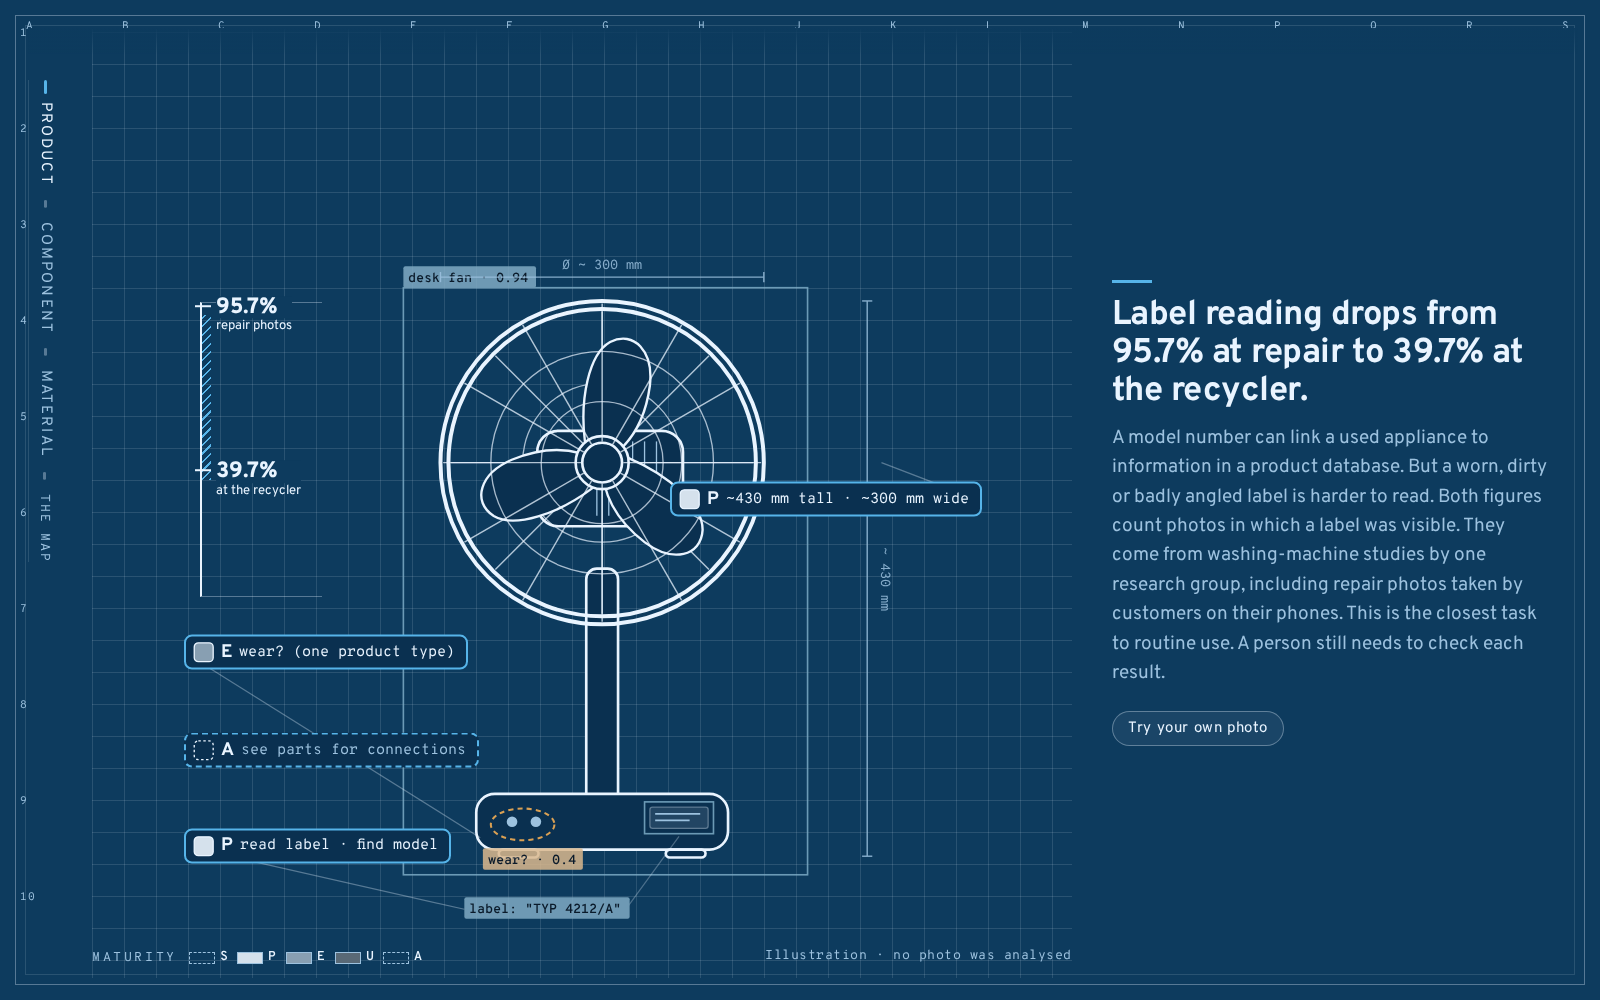
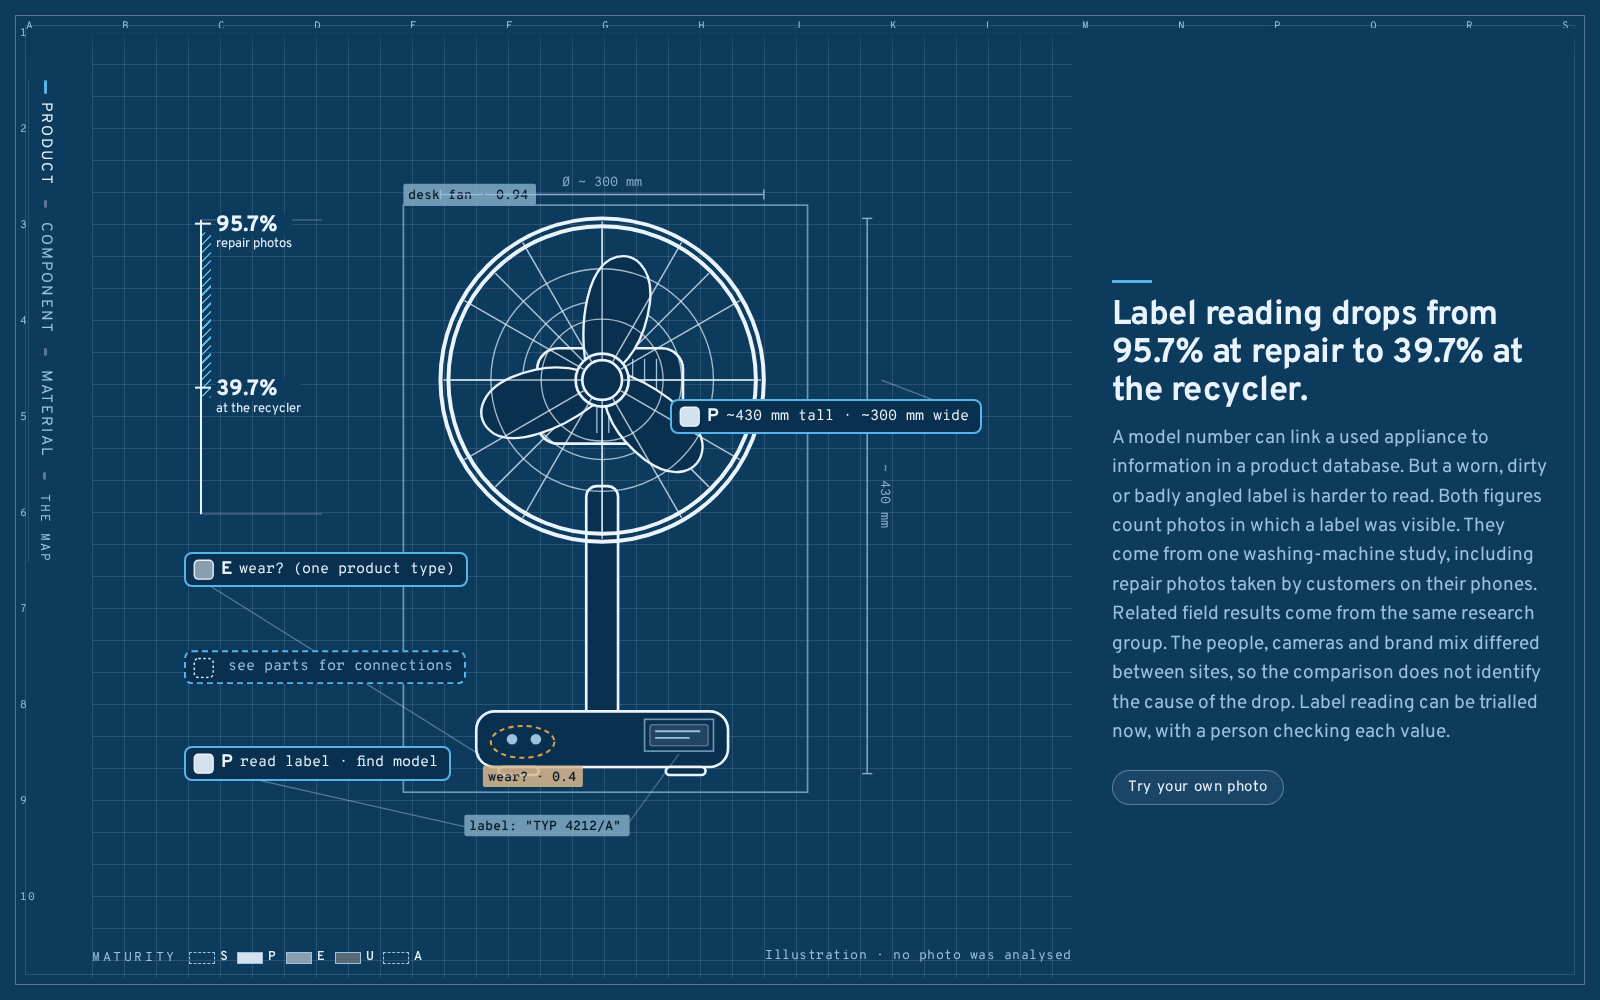
fix: preserve evidence scope and task semantics
- Qualify study results and remove ratings from structural placeholders.
- Restore mobile keyboard focus and production preview asset paths.
- Keep practical handling instructions visible.

diff --git a/src/CvTaxonomy.tsx b/src/CvTaxonomy.tsx
@@ -553,7 +553,11 @@ export function CvTaxonomy({
                 {!isMobile && (
                   <MaturityInstrument
                     live={CLAIMED_VERDICTS}
-                    reading={focus ? (splitOf(focus) ?? [focus.maturity]).join("|") : ""}
+                    reading={
+                      focus && !focus.structurallyEmpty
+                        ? (splitOf(focus) ?? [focus.maturity]).join("|")
+                        : ""
+                    }
                   />
                 )}
                 <IllustrativeDisclosure />
@@ -877,7 +881,9 @@ export function CellList({
                   ? split.map((v) => VERDICT_LETTER[v]).join(" / ")
                   : VERDICT_LETTER[cell.maturity]}
             </b>{" "}
-            <span className="cvt-sr">Maturity: {maturity}. Open details.</span>
+            <span className="cvt-sr">
+              {cell.structurallyEmpty ? "Not applicable" : `Maturity: ${maturity}`}. Open details.
+            </span>
           </button>
         );
       })}
@@ -913,9 +919,14 @@ export const Outro = memo(function Outro() {
           </p>
           <p>
             Taller blocks mean stronger evidence. The dashed line marks Strong, the highest rating;
-            no task reaches it. Two letters separate finding parts from identifying their
-            attachments. The two hatched cells point back to the parts, where connections are
-            assessed.
+            no task reaches it. Finding parts and identifying their attachments receive separate
+            ratings, giving eleven assessments across ten tasks. The two hatched cells point back to
+            the parts, where connections are assessed; they have no rating of their own.
+          </p>
+          <p>
+            Strong requires a method intended for many product types, evidence that it works on
+            recycler-intake photos, and documented use for the task. Missing tests leave a
+            requirement unmet; they do not demonstrate failure.
           </p>
           <p>{FIELD_SPLIT}</p>
           <p>
@@ -999,7 +1010,13 @@ function TableView() {
                       {sub.label && <span className="cvt-subtask"> · {sub.label}</span>}
                     </td>
                     <td>
-                      <b>{VERDICT_LETTER[sub.maturity]}</b> {sub.maturity}
+                      {cell.structurallyEmpty ? (
+                        "Not applicable"
+                      ) : (
+                        <>
+                          <b>{VERDICT_LETTER[sub.maturity]}</b> {sub.maturity}
+                        </>
+                      )}
                     </td>
                     <td className="cvt-mono">
                       {"rubricMarks" in sub && sub.rubricMarks ? sub.rubricMarks : cell.rubricMarks}
@@ -1172,6 +1189,21 @@ function DetailPanel({
 }
 
 export function DetailBody({ cell }: { cell: Cell }) {
+  if (cell.structurallyEmpty) {
+    return (
+      <>
+        <div className="cvt-verdict">
+          <strong>Not applicable</strong>
+        </div>
+        <dl className="cvt-panel-grid">
+          <Row label="Why this cell has no rating" value={cell.maturityNote} />
+        </dl>
+        <div className="cvt-panel-foot">
+          <ShareLink cellId={cell.id} />
+        </div>
+      </>
+    );
+  }
   const level = maturityLevel(cell.maturity);
   // a compound cell states both verdicts, and each sub-task keeps its own
   // handling: the weaker one's "do not populate" must not read as "verify"
@@ -1224,6 +1256,18 @@ export function DetailBody({ cell }: { cell: Cell }) {
           />
         )}
         <GapRow cell={cell} />
+        <Row
+          label="How to use the result"
+          value={
+            cell.subVerdicts
+              ? cell.subVerdicts.map((s) => (
+                  <span className="cvt-handling" key={s.label}>
+                    {s.label}: {maturityLevel(s.maturity).handling}
+                  </span>
+                ))
+              : level.handling
+          }
+        />
         {/* The run belongs where the panel opens, not folded into "More detail":
             it is the derivation of the verdict stated three lines above it, and
             behind a closed <details> nobody meets the mechanism at all. */}
@@ -1249,18 +1293,6 @@ export function DetailBody({ cell }: { cell: Cell }) {
           {/* the paper's own notation, for a reader checking against Table S2; the
               run above already glosses each mark, so the key stays with the table */}
           <Row label={RUBRIC_LABEL} value={<span className="cvt-mono">{cell.rubricMarks}</span>} />
-          <Row
-            label="How to use the result"
-            value={
-              cell.subVerdicts
-                ? cell.subVerdicts.map((s) => (
-                    <span className="cvt-handling" key={s.label}>
-                      {s.label}: {maturityLevel(s.maturity).handling}
-                    </span>
-                  ))
-                : level.handling
-            }
-          />
         </dl>
       </details>
 

diff --git a/src/inert.browser.test.tsx b/src/inert.browser.test.tsx
@@ -1,6 +1,6 @@
 import { render, screen } from "@testing-library/react";
 import { afterEach, describe, expect, it, vi } from "vitest";
-import { page, userEvent } from "vitest/browser";
+import { commands, page, userEvent } from "vitest/browser";
 import { CvTaxonomy } from "./CvTaxonomy";
 
 /**
@@ -17,7 +17,7 @@ import { CvTaxonomy } from "./CvTaxonomy";
  * point over a cell button belongs to the page and not to the button. Both
  * directions are asserted: an inert that never clears is its own bug.
  */
-const PHONE = { w: 420, h: 900 };
+const PHONE = { w: 390, h: 844 };
 
 const centreOf = (el: HTMLElement) => {
   const r = el.getBoundingClientRect();
@@ -26,26 +26,52 @@ const centreOf = (el: HTMLElement) => {
 
 /** Narrow past the seam, bring a cell button on screen above the sheet's reach,
  *  and open a cell's sheet from it. */
-async function openSheetOverScenes() {
+async function openSheetOverScenes(cellId = "product-condition", keyboard = false) {
   render(<CvTaxonomy />);
   await page.viewport(PHONE.w, PHONE.h);
   await vi.waitFor(() => expect(document.querySelector(".cvt-mcell")).not.toBeNull());
 
-  // the sheet is 82vh tall, so the button must sit in the top part of the screen;
+  // the sheet is 84vh tall, so the button must sit in the top part of the screen;
   // under the sticky figure it would be the figure's pixel, not the page's
-  const cells = [...document.querySelectorAll<HTMLElement>("#cvt-ch-Product .cvt-mcell")];
-  const button = cells.at(-1) as HTMLElement;
+  const button = document.getElementById(`cvt-m-${cellId}`) as HTMLElement;
   button.scrollIntoView({ block: "center" });
   window.scrollBy(0, PHONE.h * 0.05);
-  await userEvent.click(button);
+  if (keyboard) {
+    button.focus();
+    await userEvent.keyboard("{Enter}");
+  } else await userEvent.click(button);
   await vi.waitFor(() => expect(screen.queryByRole("dialog")).not.toBeNull());
   return button;
 }
 
 // the viewport is per-page, not per-test, so hand the next test its desktop back
-afterEach(() => page.viewport(1280, 900));
+afterEach(async () => {
+  await commands.emulateMedia({ reducedMotion: null });
+  await page.viewport(1280, 900);
+});
 
 describe("the covered scenes, in an engine that implements inert", () => {
+  it.each([
+    ["pointer", "Escape"],
+    ["pointer", "close button"],
+    ["keyboard", "Escape"],
+    ["keyboard", "close button"],
+  ])("returns keyboard position after %s open and %s", async (open, close) => {
+    await commands.emulateMedia({ reducedMotion: "reduce" });
+    const opener = await openSheetOverScenes("product-identity", open === "keyboard");
+    expect((document.querySelector(".cvt-scroll") as HTMLElement).inert).toBe(true);
+    // Read the settled style before dismissing: closing during the opening
+    // transition does not exercise the rail's final visibility state.
+    getComputedStyle(opener).getPropertyValue("visibility");
+    await new Promise(requestAnimationFrame);
+    if (close === "Escape") await userEvent.keyboard("{Escape}");
+    else await userEvent.click(screen.getByRole("button", { name: /close details/i }));
+    await vi.waitFor(() => expect(screen.queryByRole("dialog")).toBeNull());
+    await vi.waitFor(() => expect(opener).toHaveFocus());
+    await userEvent.tab();
+    expect(document.getElementById("cvt-m-product-quantity")).toHaveFocus();
+  });
+
   it("are not there to be pressed while the sheet is over them", async () => {
     const button = await openSheetOverScenes();
 

diff --git a/src/chapters.ts b/src/chapters.ts
@@ -15,11 +15,11 @@ import { runsOf } from "./rubricMarks";
 export const CHAPTER_COPY: Record<Scale, { title: string; body: string }> = {
   Product: {
     title: "Label reading drops from 95.7% at repair to 39.7% at the recycler.",
-    body: "A model number can link a used appliance to information in a product database. But a worn, dirty or badly angled label is harder to read. Both figures count photos in which a label was visible. They come from washing-machine studies by one research group, including repair photos taken by customers on their phones. This is the closest task to routine use. A person still needs to check each result.",
+    body: "A model number can link a used appliance to information in a product database. But a worn, dirty or badly angled label is harder to read. Both figures count photos in which a label was visible. They come from one washing-machine study, including repair photos taken by customers on their phones. Related field results come from the same research group. The people, cameras and brand mix differed between sites, so the comparison does not identify the cause of the drop. Label reading can be trialled now, with a person checking each value.",
   },
   Component: {
     title: "To take a product apart, we need to know how its parts are attached.",
-    body: "Software can find and outline parts in teardown photos taken in a lab or on a fixed camera rig. Tests in working repair shops are still missing. Connections need a different kind of evidence: agreed labels for attachment types and photos showing which parts connect. The review found neither. Methods that infer joints have been tried on jointed household objects and toy vehicles. Their accuracy falls from ~82% to ~39% on new objects of the same kinds.",
+    body: "Software can find and outline parts in teardown photos taken in a lab or on a fixed camera rig. Tests in working repair shops are still missing. For disassembling consumer products in general, the review found no shared way to label attachments linked to photos, or general image dataset of those connections. Existing demonstrations cover jointed household objects and toy vehicles. In one study of jointed household objects, the whole connection map was correct in ~82% of cases on one dataset and ~39% on an unseen dataset. That tests generalisation, not performance on repair-shop photos.",
   },
   Material: {
     title: "A photo shows the surface. Recovery depends on what lies underneath, too.",
@@ -34,7 +34,7 @@ export const SCENE_DROP: Partial<
   Record<Scale, { from: string; fromLabel: string; to: string; toLabel: string }>
 > = {
   Product: { from: "95.7%", fromLabel: "repair photos", to: "39.7%", toLabel: "at the recycler" },
-  Component: { from: "~82%", fromLabel: "familiar objects", to: "~39%", toLabel: "new objects" },
+  Component: { from: "~82%", fromLabel: "first dataset", to: "~39%", toLabel: "unseen dataset" },
 };
 
 export const cap = (s = "") => s.charAt(0).toUpperCase() + s.slice(1);

diff --git a/src/CvTaxonomy.test.tsx b/src/CvTaxonomy.test.tsx
@@ -2,6 +2,7 @@ import { act, render, screen, waitFor, within } from "@testing-library/react";
 import userEvent from "@testing-library/user-event";
 import { afterEach, describe, expect, it, vi } from "vitest";
 import {
+  CellList,
   CvTaxonomy,
   cameraTransform,
   flyIntoMap,
@@ -584,6 +585,26 @@ describe("the closing flight", () => {
 });
 
 describe("what each cell is missing", () => {
+  it.each(["Product", "Material"] as const)(
+    "does not rate %s connections in a phone list",
+    (scale) => {
+      render(<CellList scale={scale} onOpen={() => {}} />);
+      const button = screen.getByRole("button", { name: new RegExp(`${scale} · Structure`) });
+      expect(button).toHaveAccessibleName(/not applicable/i);
+      expect(button).not.toHaveAccessibleName(/absent/i);
+    },
+  );
+
+  it("does not light the Absent rung for a connections placeholder", async () => {
+    const user = userEvent.setup();
+    render(<CvTaxonomy debugChapter="Product" />);
+    await user.hover(trigger("product-structure"));
+    expect(document.querySelector('.cvt-rung[data-verdict="A"]')).toHaveAttribute(
+      "data-reading",
+      "false",
+    );
+  });
+
   it("is in each matrix cell's name, after the letter it shows", () => {
     render(<CvTaxonomy debugChapter="outro" />);
     const cell = document.getElementById("cvt-mx-component-structure") as HTMLElement;
@@ -613,6 +634,9 @@ describe("what each cell is missing", () => {
     render(<CvTaxonomy initialCell="product-structure" />);
     const detail = await screen.findByRole("complementary");
     expect(within(detail).queryByText("What is missing")).toBeNull();
+    expect(detail).toHaveTextContent(/not applicable/i);
+    expect(detail).not.toHaveTextContent(/A: Absent/);
+    expect(within(detail).queryByText("How to use the result")).toBeNull();
   });
 });
 
@@ -728,6 +752,18 @@ describe("the chapter rail is navigation, not decoration", () => {
 });
 
 describe("the plain-table twin", () => {
+  it.each(["Product", "Material"])(
+    "does not give %s connections an Absent rating",
+    async (scale) => {
+      const user = userEvent.setup();
+      render(<Outro />);
+      await user.click(screen.getByRole("button", { name: /plain table/i }));
+      const row = screen.getByRole("row", { name: new RegExp(`${scale} Structure`) });
+      expect(row).toHaveTextContent("Not applicable");
+      expect(row).not.toHaveTextContent("Absent");
+    },
+  );
+
   // The only native <dialog> left on the sheet, and the sole consumer of the
   // showModal/close emulation in test-setup — so its contract is asserted here
   // rather than assumed.

diff --git a/src/Fan.tsx b/src/Fan.tsx
@@ -306,7 +306,7 @@ function Callout({
   onSelect: (cell: Cell, focusId: string) => void;
   onHover: (cell: Cell | null) => void;
 }) {
-  const letter = VERDICT_LETTER[cell.maturity];
+  const letter = cell.structurallyEmpty ? "" : VERDICT_LETTER[cell.maturity];
   // The zoom frames are tighter than the chip ring by construction, so while a
   // detail is open most sibling chips sit outside the drawing's frame. A chip the
   // reader cannot see is not a tab stop. Its visible fragment stays clickable, so
@@ -332,7 +332,7 @@ function Callout({
       inert={!active}
       tabIndex={selected || inFrame ? 0 : -1}
       // starts with what the chip shows, so a voice user can say what they see
-      aria-label={`${letter} ${text}. ${cell.scale} · ${cell.informationType}: ${taskName(cell)}. Maturity: ${maturityName(cell)}. Open details.`}
+      aria-label={`${letter} ${text}. ${cell.scale} · ${cell.informationType}: ${taskName(cell)}. ${cell.structurallyEmpty ? "Not applicable" : `Maturity: ${maturityName(cell)}`}. Open details.`}
       style={{
         top: pctY(y - 6),
         ...(x === undefined

diff --git a/src/Fan.test.tsx b/src/Fan.test.tsx
@@ -38,6 +38,17 @@ const COMPONENT_CHIPS = [
 ];
 
 describe("chip operability", () => {
+  it.each(["Product", "Material"] as const)(
+    "does not rate the %s connections placeholder",
+    (scale) => {
+      const { container } = renderFan({ chapter: scale });
+      const button = chip(container, `${scale.toLowerCase()}-structure`);
+      expect(button).toHaveAccessibleName(/not applicable/i);
+      expect(button).not.toHaveAccessibleName(/absent/i);
+      expect(button.querySelector(".cvt-co-letter")).toBeEmptyDOMElement();
+    },
+  );
+
   it("drops chips outside the camera frame from the tab ring, but never the selected one", () => {
     // component-quantity's frame is tight around the motor: the identity chip in
     // the left gutter is not on the sheet while that detail is open, and a chip

diff --git a/src/CvTaxonomy.css b/src/CvTaxonomy.css
@@ -2658,10 +2658,9 @@ html[data-theme="dark"] {
   position: relative;
   min-width: 0;
 }
-/* The prose steps aside rather than unmounting. visibility:hidden takes it out
-   of the tab order and the accessibility tree — the detail stands in its place
-   for the reader too — while the box keeps the height the scroll needs. */
-.cvt-railcol[data-detail="open"] .cvt-rail {
+/* The desktop detail replaces the prose without changing its height. The phone
+   sheet uses inert instead; its opener must stay visible for focus return. */
+:where(.cvt-scroll[data-layout="sheet"]) .cvt-railcol[data-detail="open"] .cvt-rail {
   visibility: hidden;
 }
 /* The slot is the sticky, zero-height thing; the detail overflows it, so opening

diff --git a/vite.config.ts b/vite.config.ts
@@ -8,9 +8,9 @@ import { defineConfig } from "vite";
 const TESSERACT_ENG = "tesseract/eng.traineddata.gz";
 const ENG_SOURCE = "node_modules/@tesseract.js-data/eng/4.0.0_best_int/eng.traineddata.gz";
 
-export default defineConfig(({ command }) => ({
-  // GitHub Pages serves project sites under /<repo>/; dev/preview stay at root.
-  base: command === "build" ? "/cv-ie-taxonomy/" : "/",
+export default defineConfig(({ command, isPreview }) => ({
+  // Preview serves the production build at the same path; development stays at root.
+  base: command === "build" || isPreview ? "/cv-ie-taxonomy/" : "/",
   plugins: [
     react(),
     // The built page's content security policy. GitHub Pages cannot send headers,

diff --git a/CHANGELOG.md b/CHANGELOG.md
@@ -7,7 +7,7 @@ Changes follow [Keep a Changelog](https://keepachangelog.com/en/1.1.0/).
 ### Added
 
 - Explore the review's evidence through an illustrated desk fan, an interactive
-  map and a plain table. Each task links to its sources. See [what the page shows](README.md#what-the-page-shows).
+  map and a plain table, with sources for each task. See [what the page shows](README.md#what-the-page-shows).
 - Try different evidence marks in **What if?**, export your assessment, or run
   image-analysis software on a photo in your browser. See [the photo tools](README.md#try-software-on-your-own-photo).
 - Issue and pull request templates and a code of conduct explain how to contribute.
@@ -16,7 +16,17 @@ Changes follow [Keep a Changelog](https://keepachangelog.com/en/1.1.0/).
 ### Changed
 
 - The page and README explain the findings through decisions about repair, reuse
-  and recycling, with less technical wording. The research ratings and numbers
-  are unchanged. See [the research and illustration](README.md#what-the-page-shows).
+  and recycling, while preserving study scope and distinguishing missing evidence
+  from demonstrated failure. Research ratings and numbers are unchanged; see
+  [the research and illustration](README.md#what-the-page-shows).
+
+### Fixed
+
+- Closing a phone task sheet returns keyboard focus to the task that opened it.
+  See [accessibility behaviour](README.md#accessibility).
+- Cells whose connections are assessed at the parts level show no maturity rating.
+  See [how the map presents evidence](README.md#what-the-page-shows).
+- The production preview serves scripts at the same path as the build.
+  See [development commands](README.md#develop).
 
 [Unreleased]: https://github.com/simonvanlierde/cv-ie-taxonomy/commits/HEAD

diff --git a/README.md b/README.md
@@ -17,8 +17,8 @@ photos taken in those settings.
 
 Follow a desk fan from the whole product to its parts and materials. Select a
 label or a cell to see the evidence for one task. No task earns the review's
-highest rating, Strong. Label reading, for example, drops from 95.7% on repair
-photos to 39.7% at recycler intake.
+highest rating, Strong. In one washing-machine study, model numbers were read
+from 95.7% of photos with a visible label at repair, and 39.7% at recycler intake.
 
 The page accompanies the review article *Benchmarked, Rarely Field-Tested:
 Computer Vision for End-of-Life Product Data in Industrial Ecology* (van Lierde
@@ -71,6 +71,7 @@ pnpm test:all    # unit and Chromium tests
 pnpm check       # lint and format
 pnpm check:theme # colours match src/theme.ts
 pnpm build       # typecheck and production build
+pnpm preview     # inspect the build at /cv-ie-taxonomy/
 ```
 
 Use `pnpm test` for unit tests or `pnpm test:browser` for Chromium tests.
